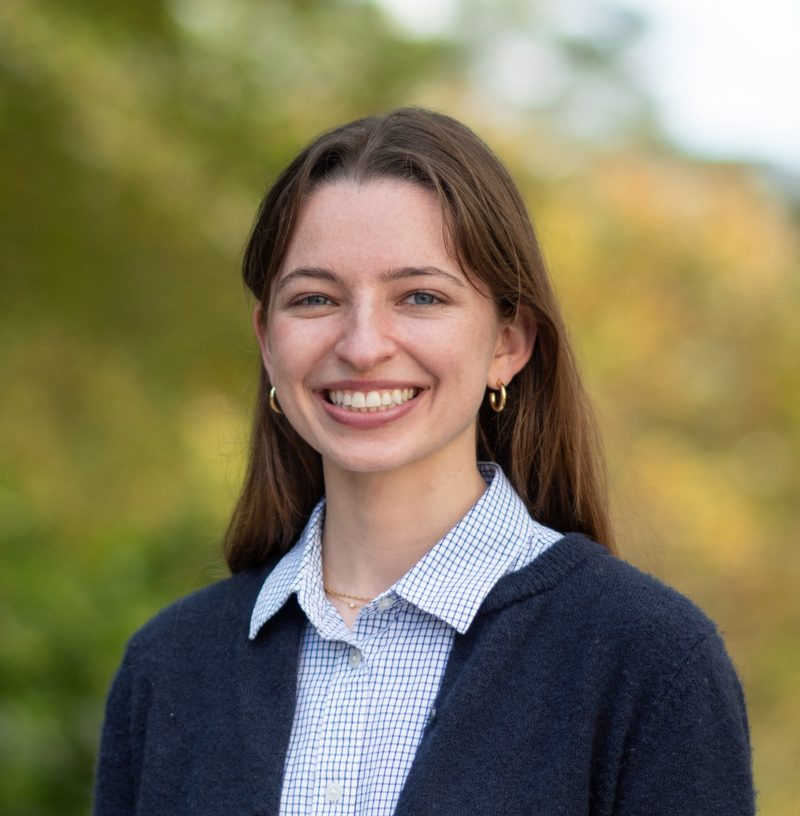
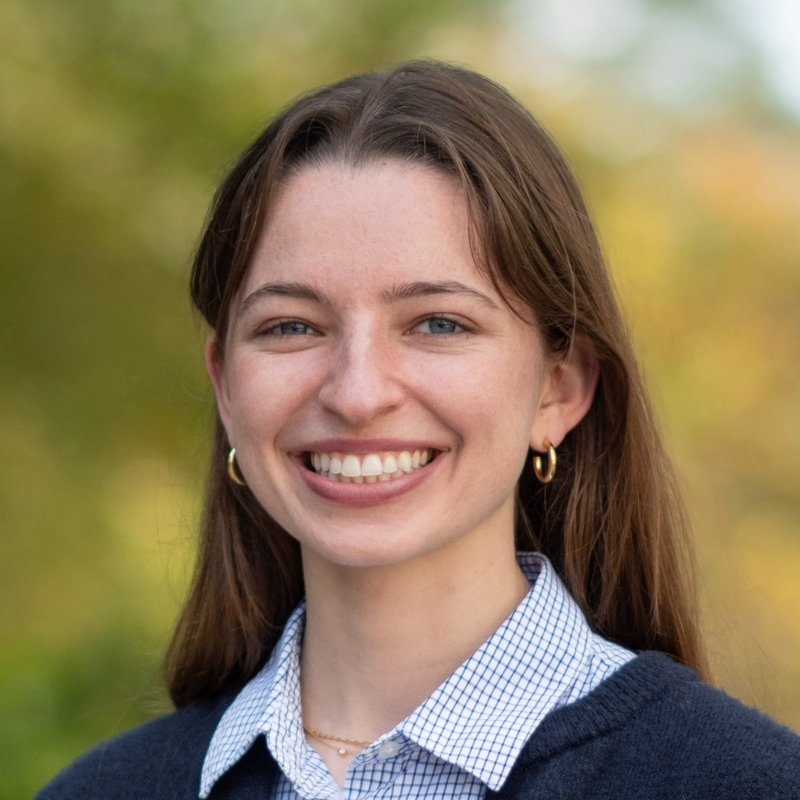
Tighter headshot and team photo crops, larger headshot
Claude-Session: https://claude.ai/code/session_01HFMymAmWcw7GchssUrMz1g

diff --git a/assets/css/styles.css b/assets/css/styles.css
@@ -97,12 +97,12 @@ section { padding-block: 56px; border-top: 1px solid var(--line); display: flex;
 section:first-child { border-top: 0; }
 
 /* Intro */
-.intro { display: grid; grid-template-columns: 1fr 200px; gap: 40px; align-items: center; padding-block: 64px 56px; }
+.intro { display: grid; grid-template-columns: 1fr 240px; gap: 40px; align-items: center; padding-block: 64px 56px; }
 .intro-text { display: flex; flex-direction: column; gap: 16px; min-width: 0; }
 .intro .role { font-size: 1.15rem; color: var(--ink); }
 .intro .role a { font-weight: 500; }
 .intro p.lede { color: var(--muted); max-width: 58ch; }
-.headshot { width: 200px; aspect-ratio: 1; object-fit: cover; border-radius: 50%; }
+.headshot { width: 240px; aspect-ratio: 1; object-fit: cover; border-radius: 50%; }
 .links { display: flex; flex-wrap: wrap; gap: 10px; margin-top: 4px; }
 .button {
   display: inline-block;
@@ -119,7 +119,7 @@ section:first-child { border-top: 0; }
 
 @media (max-width: 640px) {
   .intro { grid-template-columns: 1fr; gap: 24px; padding-block: 40px; }
-  .headshot { order: -1; width: 128px; }
+  .headshot { order: -1; width: 160px; }
 }
 
 /* Deleon */
